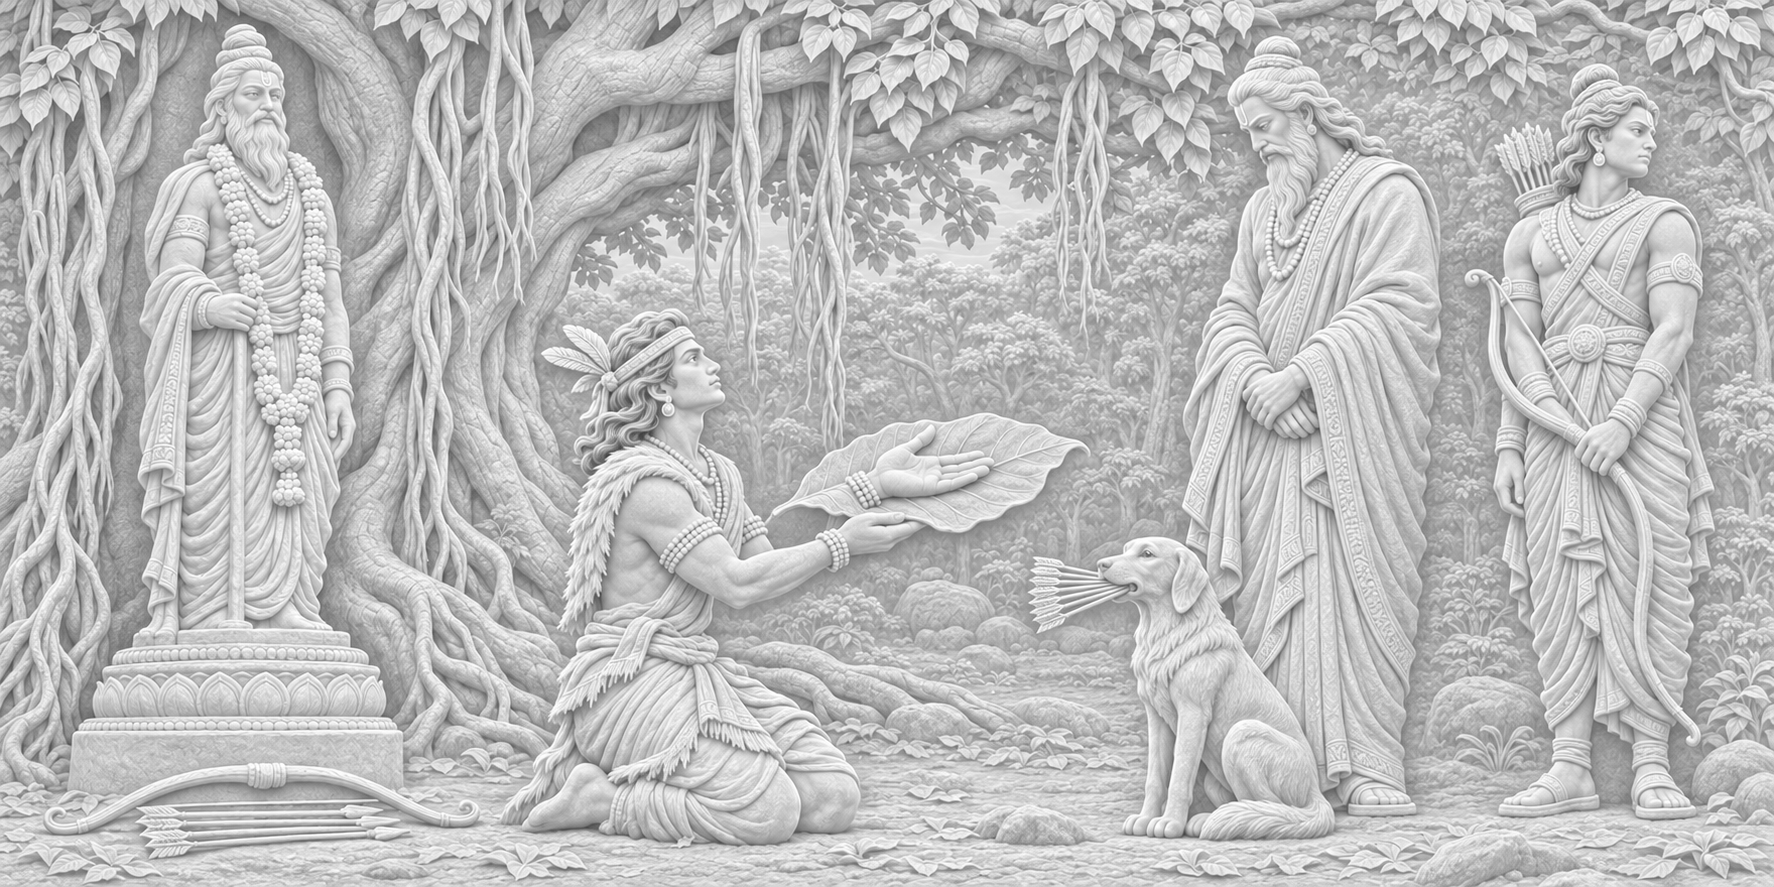
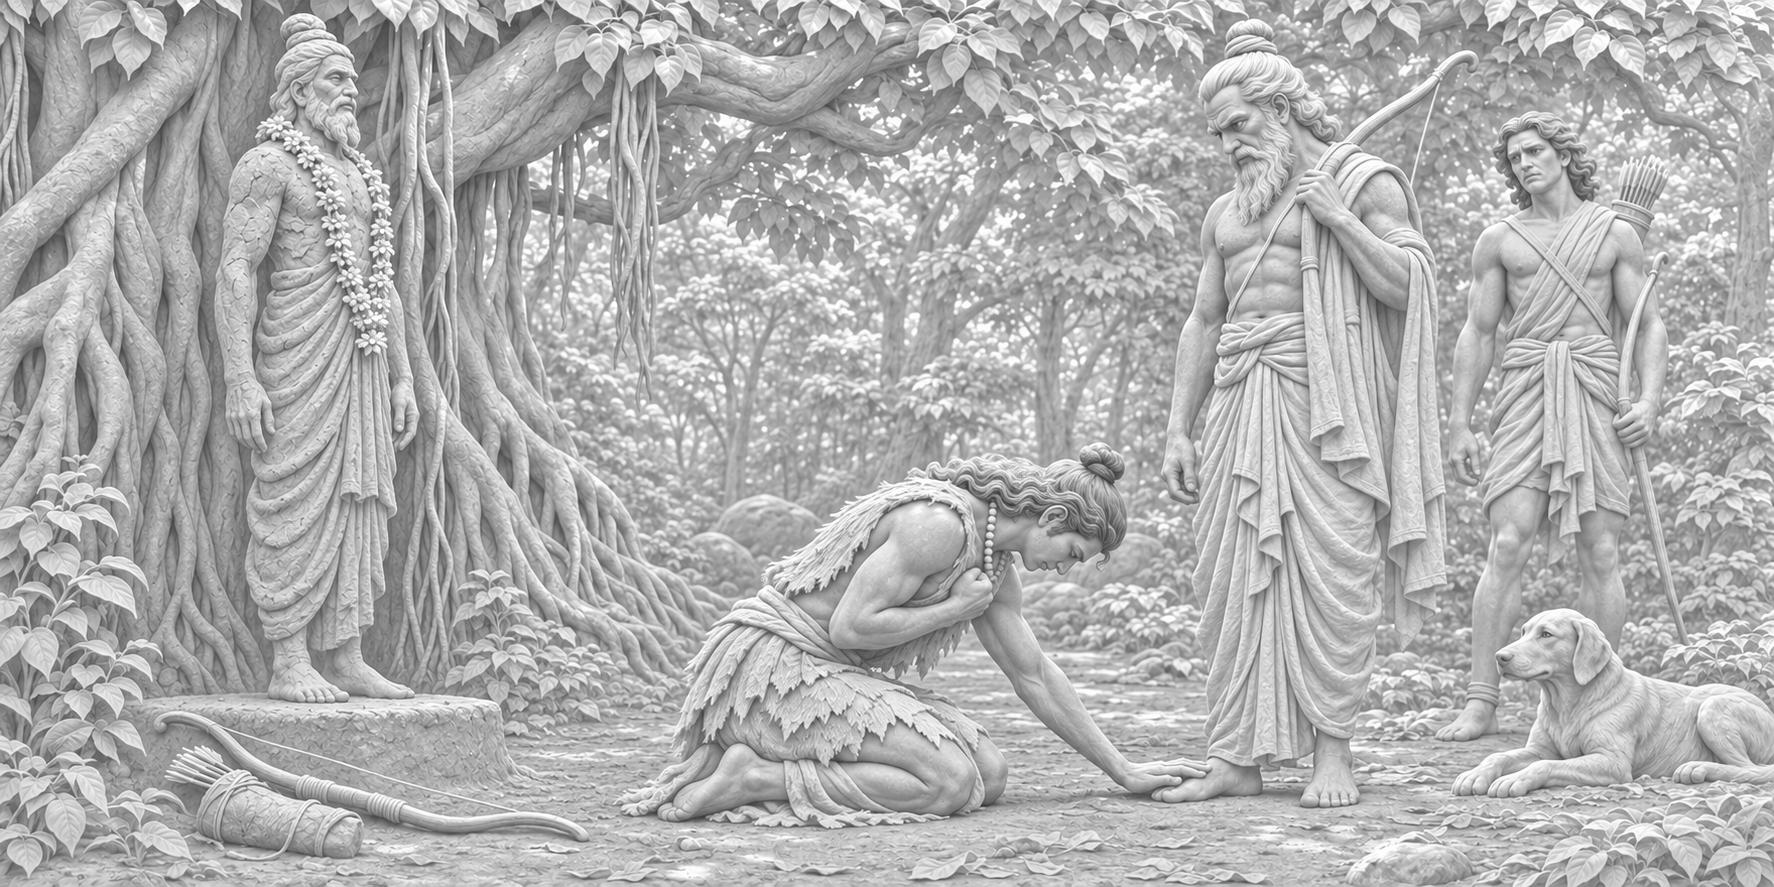
Regenerate Ekalavya as an authentic ancient-Indian moment
Replace the feather headband, the dog fetching a bundle of arrows and the
empty leaf gesture with the real moment: the Nishada prince in bark and
deerskin, bow laid at the clay Drona, kneeling at his teacher's feet.

diff --git a/docs/ASSET_REGISTER.md b/docs/ASSET_REGISTER.md
@@ -191,3 +191,7 @@ ChatGPT (user's account, same conversation); plaster panels 1774×887, each a di
 `docs/references/pots-chatgpt.png` (Part I) was regenerated without jackals on the rampart.
 
 Header painting: `docs/references/sabha-header-chatgpt.png` (1536×1024, colour, `chariot-chatgpt-subject.png` attached for finish), delivered as `public/art/sabha.webp`.
+
+### G13 — Ekalavya panel regenerated (14 November 2026)
+
+The user rejected the first `ekalavya` render: a feather headband (Native American, culturally wrong), a dog holding a bundle of arrows like a toy, an empty open hand on a leaf, and a monk-like robe on Droṇa. It was regenerated as the real moment: a dark-skinned Niṣāda prince in bark and deerskin with his hair knotted and his bow laid at the clay statue, kneeling to touch Droṇa's feet with his fist at his heart. Droṇa wears the sacred thread, dhoti and upper cloth with his bow on his shoulder; Arjuna watches; the dog lies quietly. File: `docs/references/ekalavya-chatgpt.png`. Audit of all 28 panels found no other foreign-costume or staged-prop errors.
